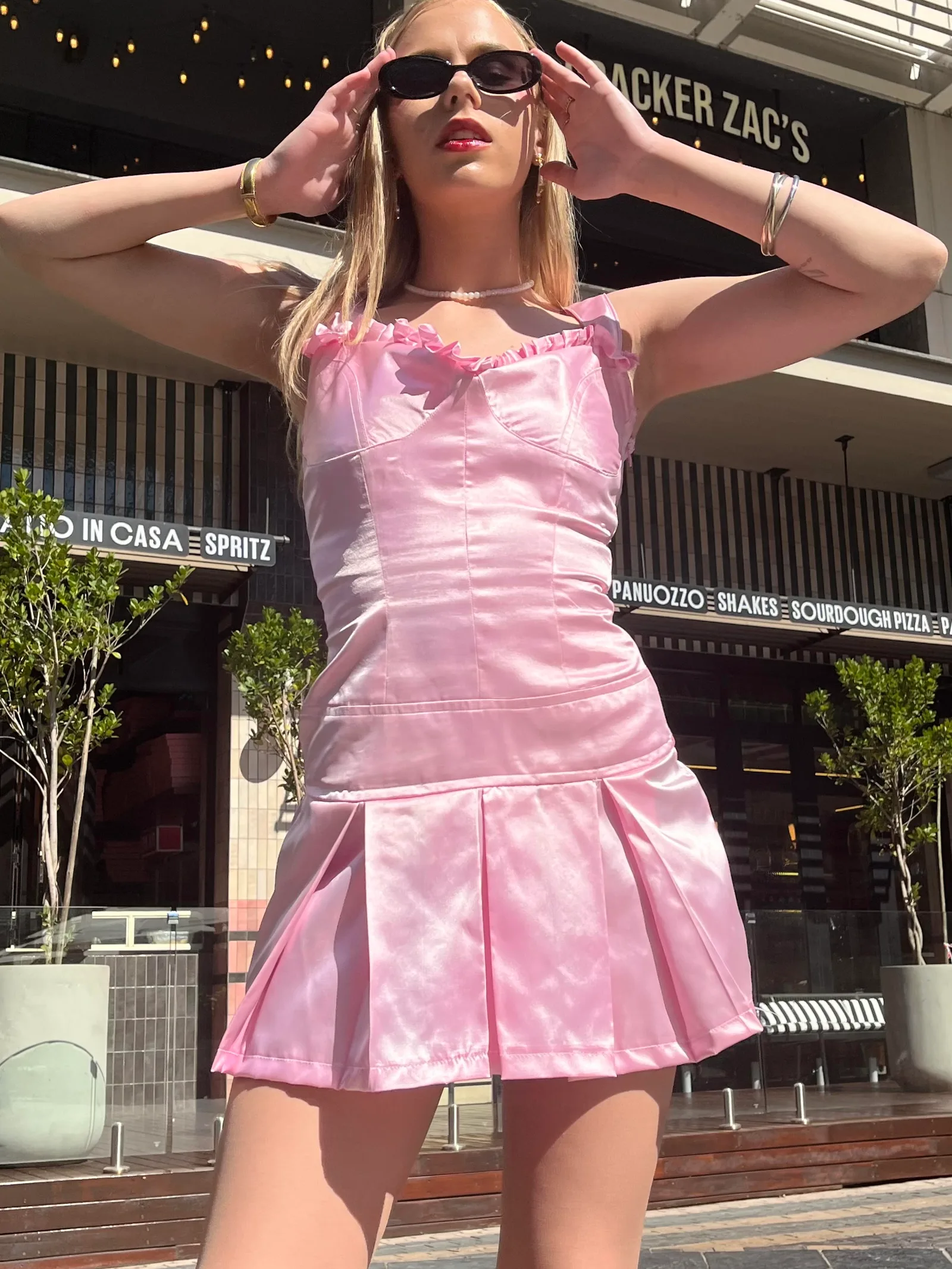
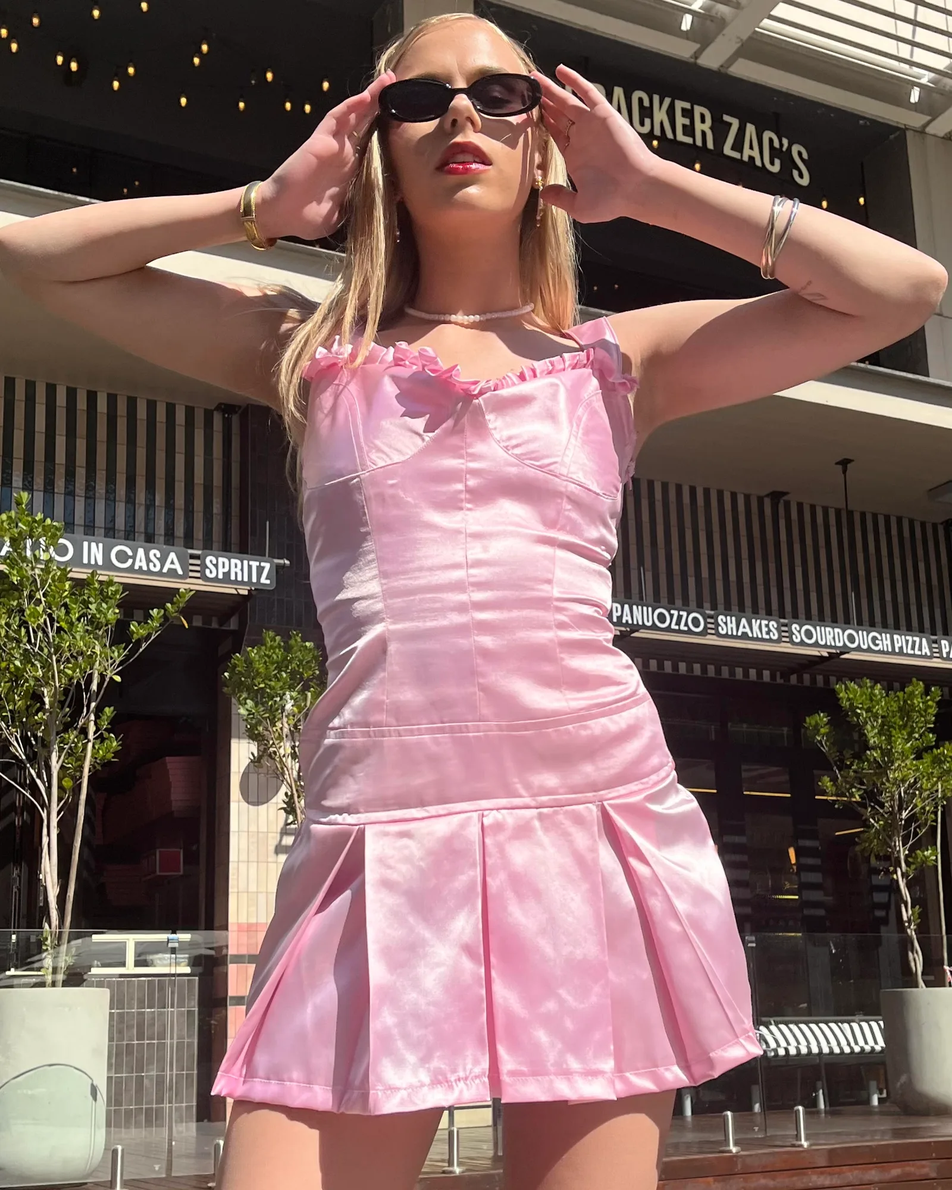
Widen dress-detail photo box to 4:5 and recrop Pink Satin photo to fit both face and hem

diff --git a/css/collection.css b/css/collection.css
@@ -134,7 +134,7 @@
 .dress-feature__stage {
   background: var(--cream-dark);
   border-radius: var(--radius-lg);
-  aspect-ratio: 1 / 1;
+  aspect-ratio: 4 / 5;
   display: flex;
   align-items: center;
   justify-content: center;
